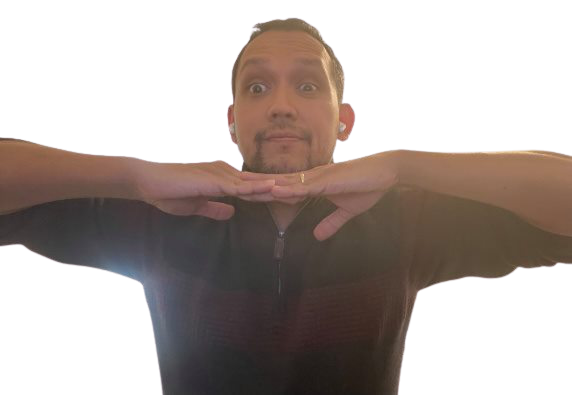
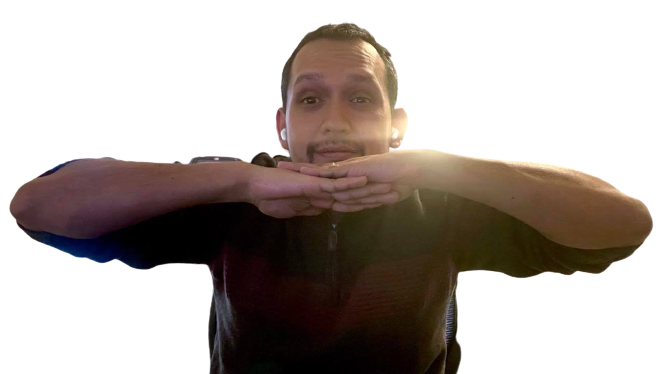
replaced swaroopimg

diff --git a/landingStyle.css b/landingStyle.css
@@ -9,7 +9,7 @@ body {
     justify-content: space-between;
     max-width: 580px;
     /*border: 5px solid black;*/
-    box-shadow: 0 0 100px black;
+    /*box-shadow: 0 0 100px black;*/
     /*opacity: ;*/
 
 }
